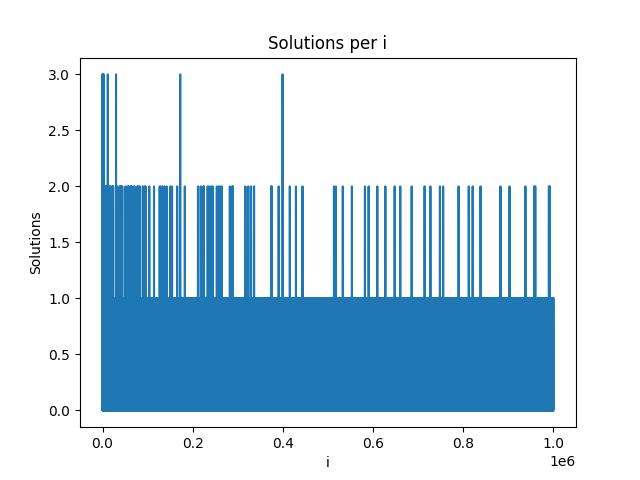
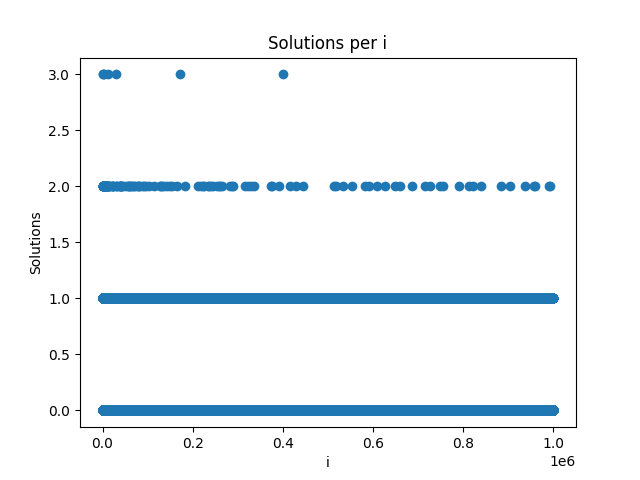
scatter update

Changed region(s): [[0.1562, 0.125, 0.875, 0.875], [0.2812, 0.1562, 0.3125, 0.1875]]

diff --git a/plots.py b/plots.py
@@ -4,7 +4,7 @@ import math
 
 
 def solution_plot(i_max, s_list):
-    plt.plot(range(0, i_max), s_list)
+    plt.scatter(range(0, i_max), s_list)
     plt.title("Solutions per i")
     plt.xlabel("i")
     plt.ylabel("Solutions")
